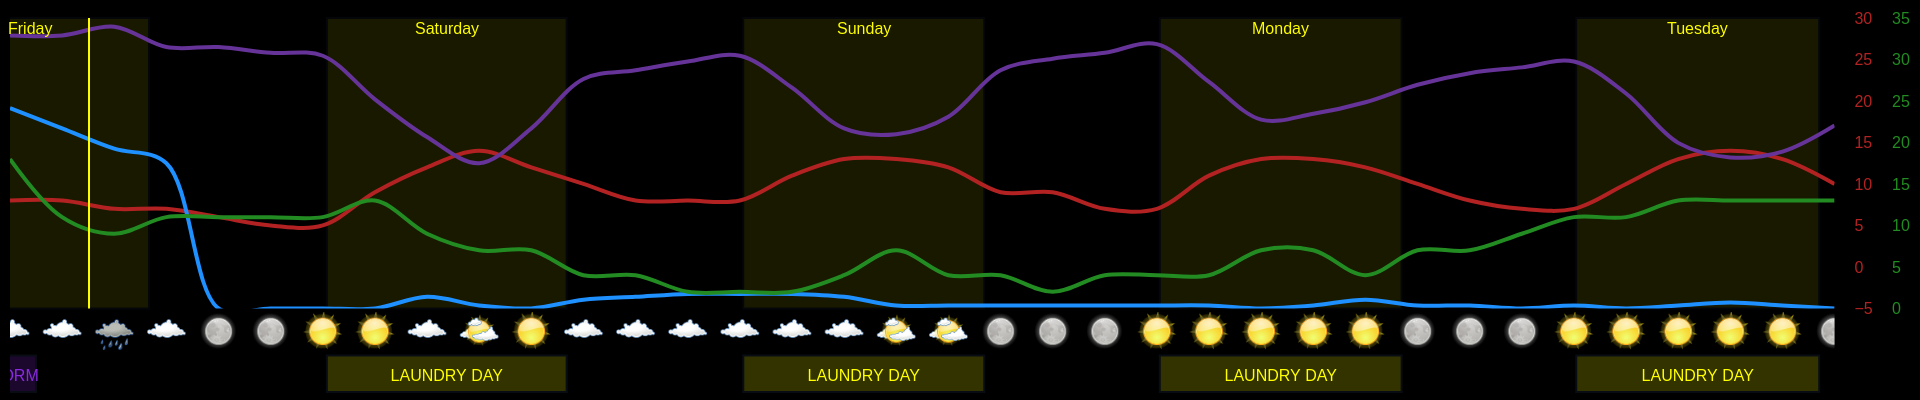
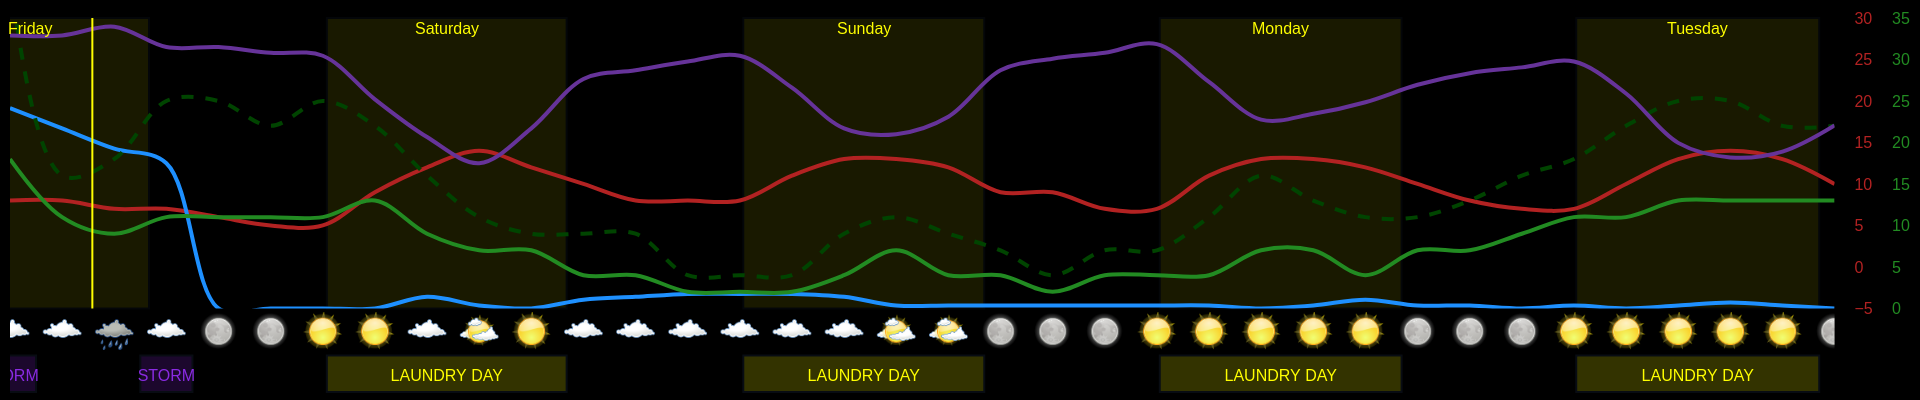
Support gust speed display and base storm warnings on gust speed

diff --git a/meteogram.py b/meteogram.py
@@ -90,6 +90,7 @@ PLOT_HEIGHT = int(os.getenv("PLOT_HEIGHT"))
 DISPLAY_TEMP = os.getenv("DISPLAY_TEMP") == "True"
 USE_FEELS_LIKE_TEMP = os.getenv("USE_FEELS_LIKE_TEMP") == "True"
 DISPLAY_WIND = os.getenv("DISPLAY_WIND") == "True"
+DISPLAY_GUSTS = os.getenv("DISPLAY_GUSTS") == "True"
 DISPLAY_PRECIP_PROB = os.getenv("DISPLAY_PRECIP_PROB") == "True"
 DISPLAY_HUMIDITY = os.getenv("DISPLAY_HUMIDITY") == "True"
 WEATHER_ICONS_ON_X_AXIS = os.getenv("WEATHER_ICONS_ON_X_AXIS") == "True"
@@ -99,7 +100,7 @@ MAX_TEMP = float(os.getenv("MAX_TEMP"))
 FROST_WARNING_TEMP = float(os.getenv("FROST_WARNING_TEMP"))
 MIN_TEMP = float(os.getenv("MIN_TEMP"))
 MAX_WIND_SPEED = float(os.getenv("MAX_WIND_SPEED"))
-STORM_WARNING_WIND_SPEED = float(os.getenv("STORM_WARNING_WIND_SPEED"))
+STORM_WARNING_GUST_SPEED = float(os.getenv("STORM_WARNING_GUST_SPEED"))
 STORM_WARNING_PRECIP_PROB = float(os.getenv("STORM_WARNING_PRECIP_PROB"))
 LAUNDRY_DAY_ABOVE_HOURS_DAYLIGHT = float(os.getenv("LAUNDRY_DAY_ABOVE_HOURS_DAYLIGHT"))
 LAUNDRY_DAY_ABOVE_AVERAGE_TEMP = float(os.getenv("LAUNDRY_DAY_ABOVE_AVERAGE_TEMP"))
@@ -111,6 +112,8 @@ WEATHER_ICON_FOLDER = os.getenv("WEATHER_ICON_FOLDER")
 TEMP_COLOR = os.getenv("TEMP_COLOR")
 PRECIP_COLOR = os.getenv("PRECIP_COLOR")
 WIND_COLOR = os.getenv("WIND_COLOR")
+GUST_COLOR = os.getenv("GUST_COLOR")
+GUST_LINE_STYLE = os.getenv("GUST_LINE_STYLE")
 HUMIDITY_COLOR = os.getenv("HUMIDITY_COLOR")
 DAYTIME_COLOR = os.getenv("DAYTIME_COLOR")
 DAYTIME_OPACITY = float(os.getenv("DAYTIME_OPACITY"))
@@ -219,6 +222,9 @@ precip_trace = go.Scatter(x=date_times, y=precip_probs, name="Precipitation Prob
 wind_trace = go.Scatter(x=date_times, y=wind_speeds, name="Wind Speed", yaxis="y3", line_shape='spline',
                         marker=dict(color=WIND_COLOR), line=dict(color=WIND_COLOR, width=4))
 # noinspection PyTypeChecker
+gust_trace = go.Scatter(x=date_times, y=wind_gusts, name="Gust Speed", yaxis="y3", line_shape='spline',
+                        marker=dict(color=WIND_COLOR), line=dict(color=GUST_COLOR, width=4, dash=GUST_LINE_STYLE))
+# noinspection PyTypeChecker
 humidity_trace = go.Scatter(x=date_times, y=humidities, name="Humidity", yaxis="y4", line_shape='spline',
                             marker=dict(color=HUMIDITY_COLOR), line=dict(color=HUMIDITY_COLOR, width=4))
 traces = []
@@ -228,6 +234,8 @@ if DISPLAY_PRECIP_PROB:
     traces.append(precip_trace)
 if DISPLAY_WIND:
     traces.append(wind_trace)
+if DISPLAY_GUSTS:
+    traces.append(gust_trace)
 if DISPLAY_HUMIDITY:
     traces.append(humidity_trace)
 
@@ -276,7 +284,7 @@ if CONDITION_BARS_ON_X_AXIS:
     # Extract regions of the forecast that correspond to frosty or stormy conditions
     frosty_indices = [i for i in range(len(temperatures)) if temperatures[i] <= FROST_WARNING_TEMP]
     wet_indices = [i for i in range(len(precip_probs)) if precip_probs[i] >= STORM_WARNING_PRECIP_PROB]
-    windy_indices = [i for i in range(len(wind_speeds)) if wind_speeds[i] >= STORM_WARNING_WIND_SPEED]
+    windy_indices = [i for i in range(len(wind_gusts)) if wind_gusts[i] >= STORM_WARNING_GUST_SPEED]
     # Stormy = wet + windy
     stormy_indices = [i for i in wet_indices if i in windy_indices]
     # Storminess takes precedence so remove any frosty indices that are also stormy
